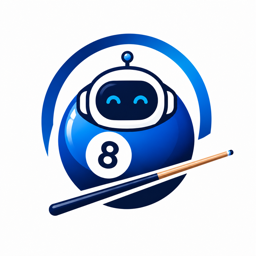
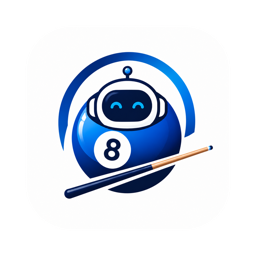
fix(desktop-ui): 批次1a——界面图标换成新squircle + 产品名统一为「台球运营管家」
- 界面图标 agent-icon.png 之前是旧平面图(蓝机器人白底),只换过app图标没换它;
  现用新squircle app图标(build/icon.png)生成256²覆盖,界面与Dock图标一致
- 产品名4种叫法→统一「台球运营管家」(对齐安装包名):macos-shell侧栏标题+alt、
  welcome-screen alt、desktop-composer占位符
- 纯资源+文案,不碰use-agent-chat/SSE/审批/BYOK

Changed region(s): [[0.1562, 0.125, 0.9062, 0.8438]]

diff --git a/web/src/components/desktop/welcome-screen.tsx b/web/src/components/desktop/welcome-screen.tsx
@@ -38,7 +38,7 @@ export function WelcomeScreen({
         {/* 图标 + 问候 */}
         <div className="mb-7 flex flex-col items-center text-center">
           {/* eslint-disable-next-line @next/next/no-img-element */}
-          <img src="/agent-icon.png" alt="球房管家" className="mb-4 h-16 w-16 rounded-2xl shadow-sm" />
+          <img src="/agent-icon.png" alt="台球运营管家" className="mb-4 h-16 w-16 rounded-2xl shadow-sm" />
           <div className="text-[24px] font-semibold text-[#1d1d1f]">{greeting}</div>
           <div className="mt-1 text-[15px] text-[#86868b]">今天想让我帮你做点什么？说一句，或点下面试试。</div>
         </div>

diff --git a/web/src/components/desktop/macos-shell.tsx b/web/src/components/desktop/macos-shell.tsx
@@ -54,8 +54,8 @@ export function DesktopSidebar({
       <div className="app-drag flex h-[52px] items-center" />
       <div className="app-drag flex items-center gap-2 px-4 pb-2">
         {/* eslint-disable-next-line @next/next/no-img-element */}
-        <img src="/agent-icon.png" alt="球房管家" className="h-7 w-7 rounded-lg object-cover" />
-        <div className="text-[15px] font-semibold text-[#1d1d1f]">球房管家</div>
+        <img src="/agent-icon.png" alt="台球运营管家" className="h-7 w-7 rounded-lg object-cover" />
+        <div className="text-[15px] font-semibold text-[#1d1d1f]">台球运营管家</div>
       </div>
 
       {/* 新对话 */}

diff --git a/web/src/components/desktop/desktop-composer.tsx b/web/src/components/desktop/desktop-composer.tsx
@@ -25,7 +25,7 @@ export function DesktopComposer({
   fullDisk = false,
   onFullDiskChange,
   disabled,
-  placeholder = "问问球房管家…",
+  placeholder = "问问台球运营管家…",
 }: {
   value: string;
   onChange: (v: string) => void;
